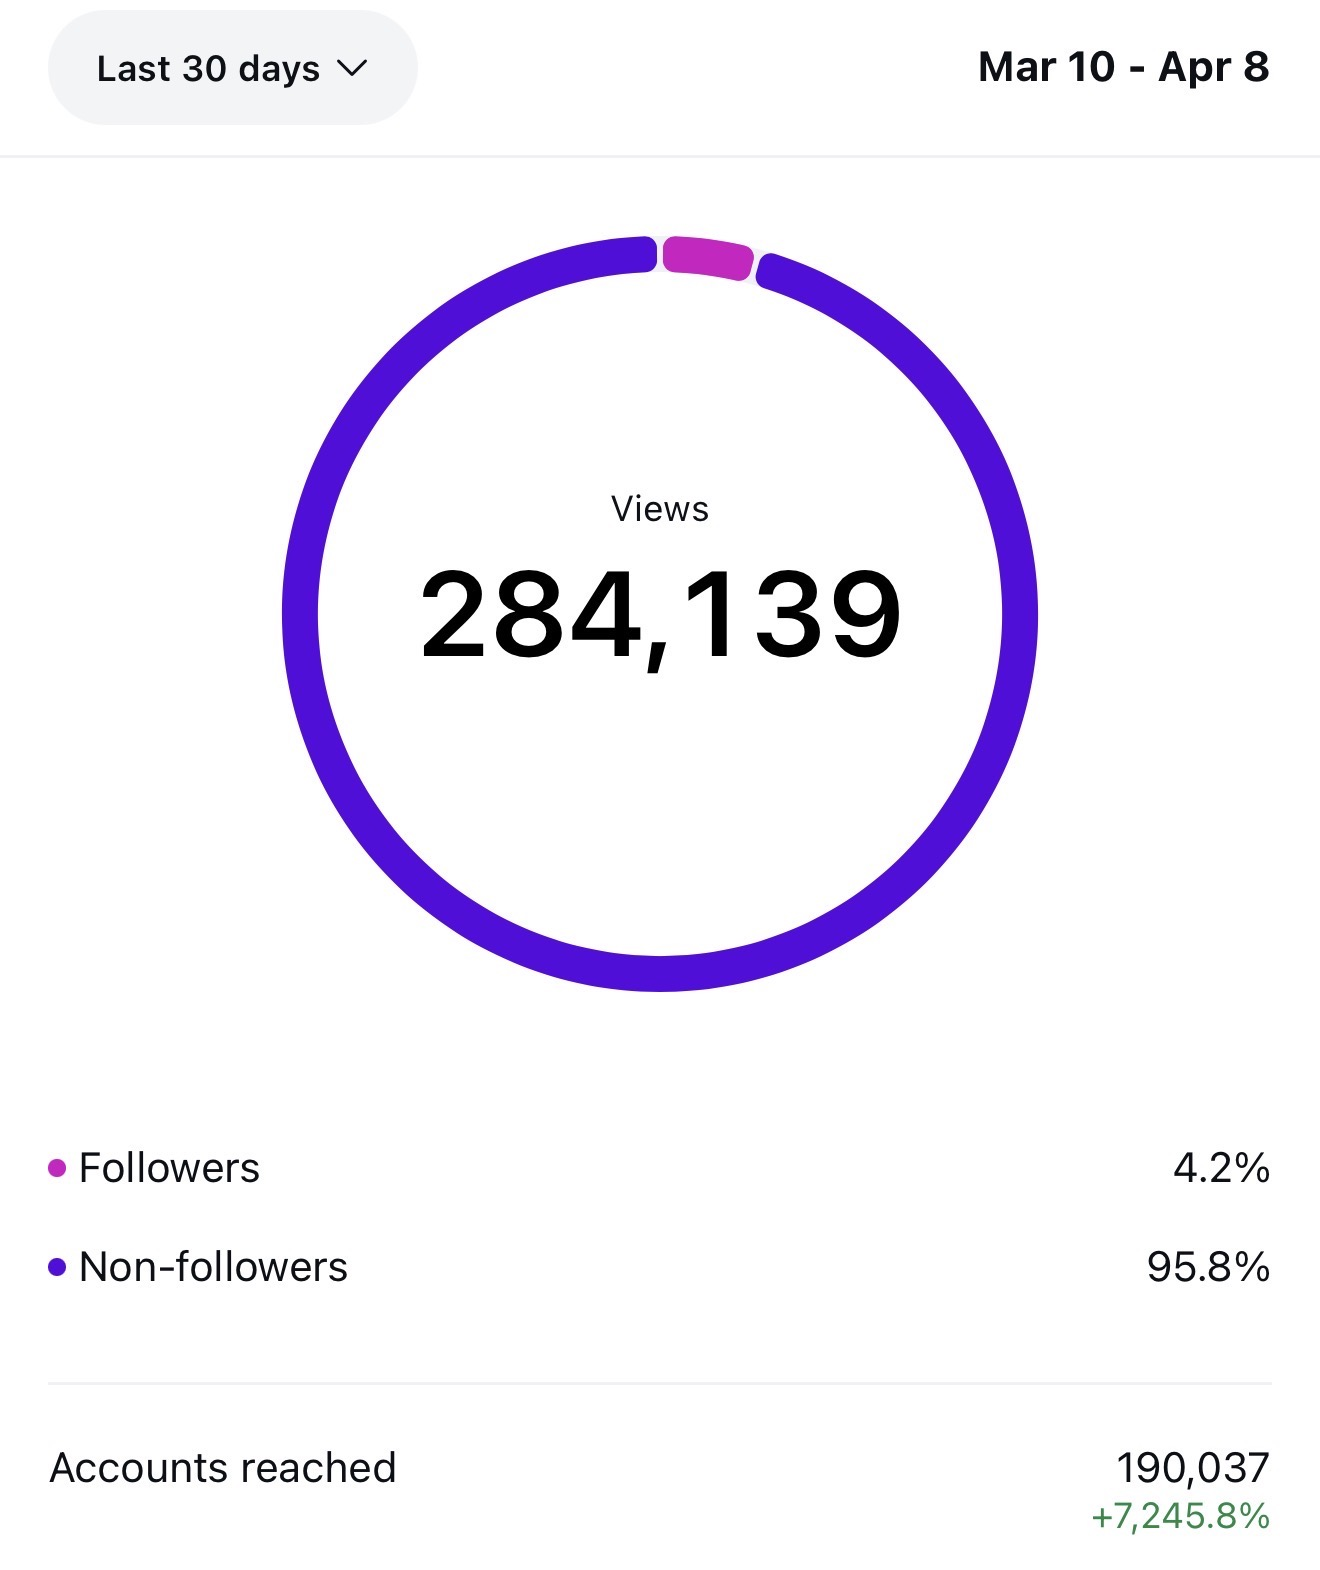
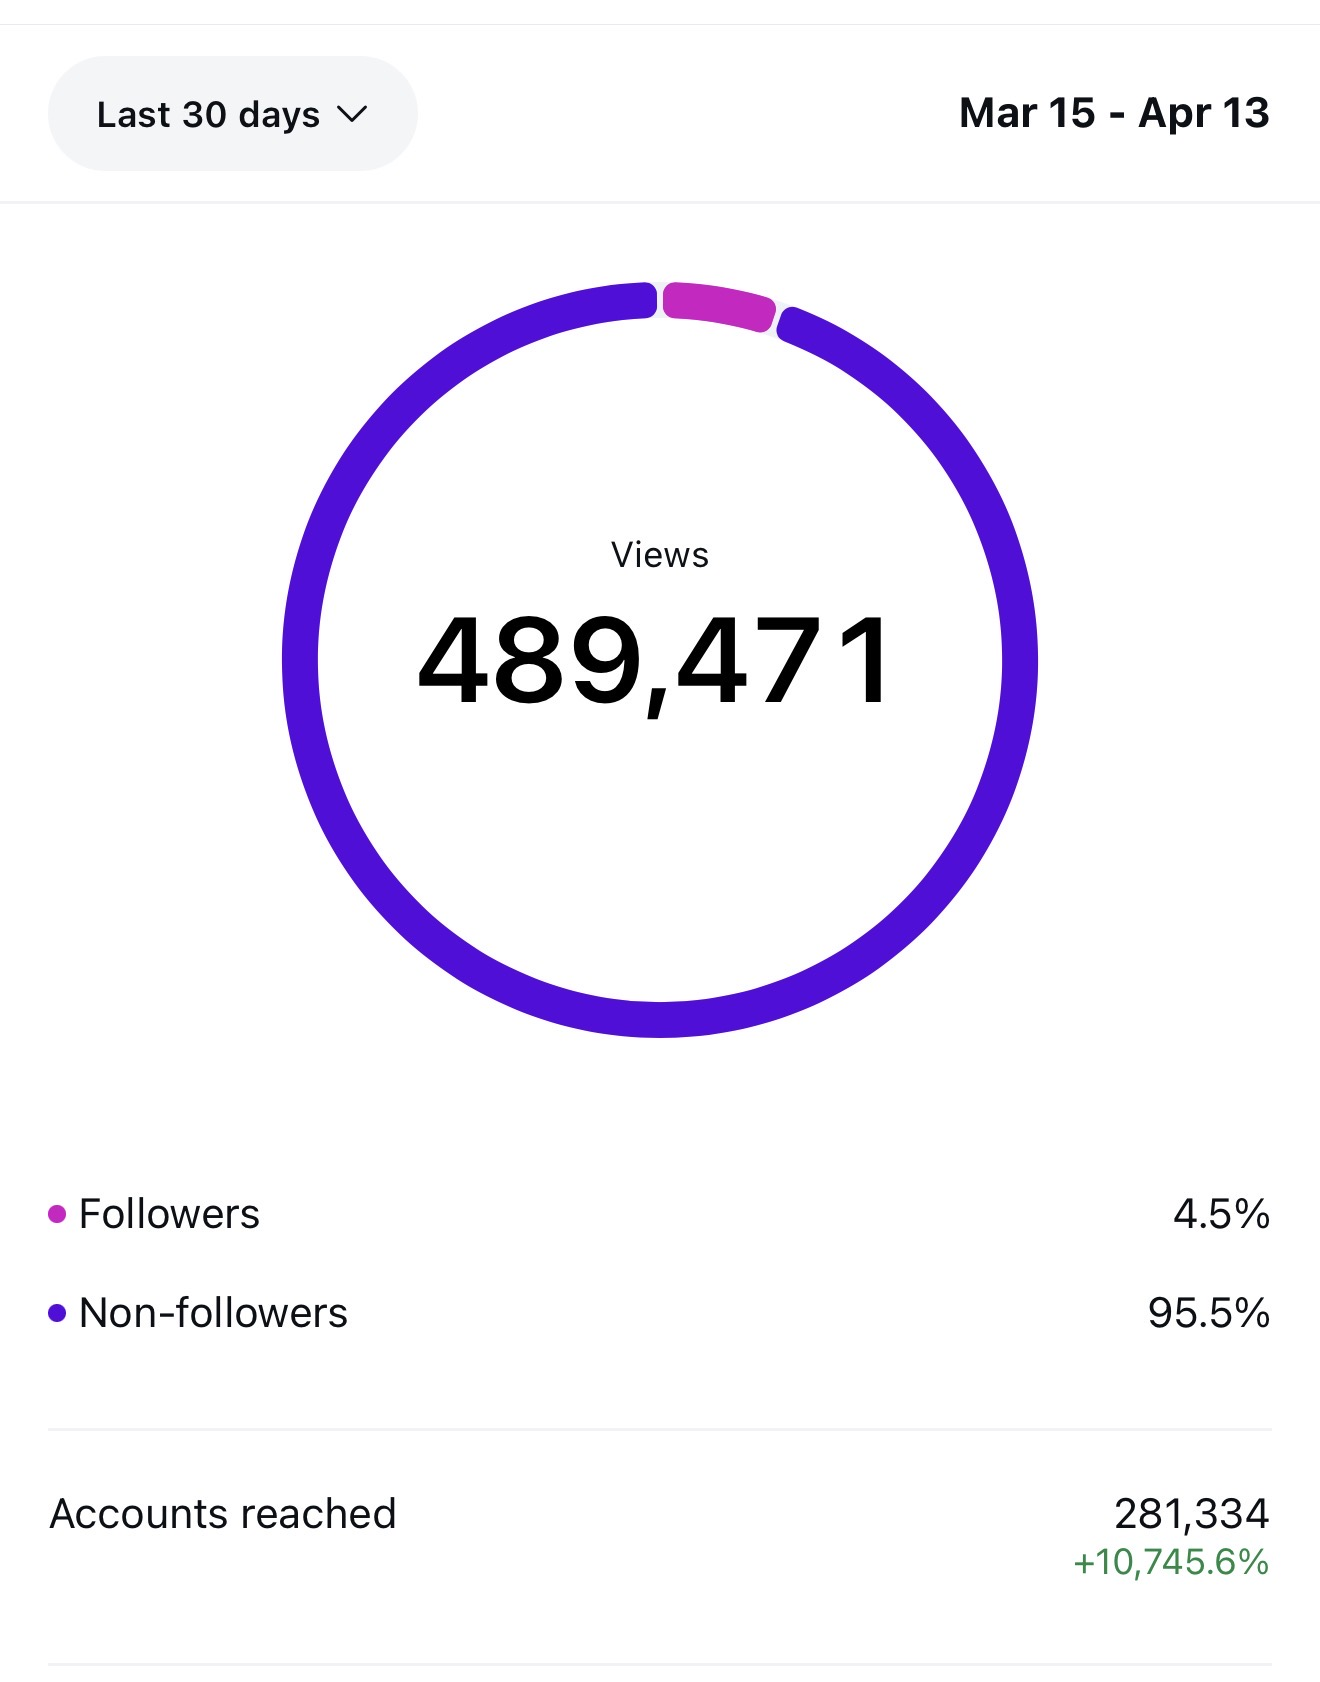
Add files via upload

diff --git a/ugc.html b/ugc.html
@@ -40,7 +40,7 @@
           <div class="iphone-frame">
             <div class="iphone-outer">
               <div class="iphone-screen">
-                <video src="images/featured-ugc.mp4" loop playsinline style="width:100%;height:100%;object-fit:cover;display:block;border-radius:26px;cursor:pointer;" onclick="togglePlay(this)"></video>
+                <video src="images/featured-ugc.mp4" loop playsinline style="width:100%;height:100%;object-fit:cover;display:block;cursor:pointer;" onclick="togglePlay(this)"></video>
               <div class="play-overlay" onclick="handleOverlayClick(this)">
                 <div class="play-btn">
                   <svg width="16" height="16" viewBox="0 0 16 16" fill="white">
@@ -105,7 +105,7 @@
       <div class="iphone-frame">
         <div class="iphone-outer">
           <div class="iphone-screen">
-            <video src="images/bc1.mp4" loop playsinline style="width:100%;height:100%;object-fit:cover;display:block;border-radius:26px;cursor:pointer;" onclick="togglePlay(this)"></video>
+            <video src="images/bc1.mp4" loop playsinline style="width:100%;height:100%;object-fit:cover;display:block;cursor:pointer;" onclick="togglePlay(this)"></video>
               <div class="play-overlay" onclick="handleOverlayClick(this)">
                 <div class="play-btn">
                   <svg width="16" height="16" viewBox="0 0 16 16" fill="white">
@@ -122,7 +122,7 @@
       <div class="iphone-frame">
         <div class="iphone-outer">
           <div class="iphone-screen">
-            <video src="images/bc2.mp4" loop playsinline style="width:100%;height:100%;object-fit:cover;display:block;border-radius:26px;cursor:pointer;" onclick="togglePlay(this)"></video>
+            <video src="images/bc2.mp4" loop playsinline style="width:100%;height:100%;object-fit:cover;display:block;cursor:pointer;" onclick="togglePlay(this)"></video>
               <div class="play-overlay" onclick="handleOverlayClick(this)">
                 <div class="play-btn">
                   <svg width="16" height="16" viewBox="0 0 16 16" fill="white">
@@ -139,7 +139,7 @@
       <div class="iphone-frame">
         <div class="iphone-outer">
           <div class="iphone-screen">
-            <video src="images/bc3.mp4" loop playsinline style="width:100%;height:100%;object-fit:cover;display:block;border-radius:26px;cursor:pointer;" onclick="togglePlay(this)"></video>
+            <video src="images/bc3.mp4" loop playsinline style="width:100%;height:100%;object-fit:cover;display:block;cursor:pointer;" onclick="togglePlay(this)"></video>
               <div class="play-overlay" onclick="handleOverlayClick(this)">
                 <div class="play-btn">
                   <svg width="16" height="16" viewBox="0 0 16 16" fill="white">
@@ -156,7 +156,7 @@
       <div class="iphone-frame">
         <div class="iphone-outer">
           <div class="iphone-screen">
-            <video src="images/bc4.mp4" loop playsinline style="width:100%;height:100%;object-fit:cover;display:block;border-radius:26px;cursor:pointer;" onclick="togglePlay(this)"></video>
+            <video src="images/bc4.mp4" loop playsinline style="width:100%;height:100%;object-fit:cover;display:block;cursor:pointer;" onclick="togglePlay(this)"></video>
               <div class="play-overlay" onclick="handleOverlayClick(this)">
                 <div class="play-btn">
                   <svg width="16" height="16" viewBox="0 0 16 16" fill="white">
@@ -178,7 +178,7 @@
       <div class="iphone-frame">
         <div class="iphone-outer">
           <div class="iphone-screen">
-            <video src="images/ub1.mp4" loop playsinline style="width:100%;height:100%;object-fit:cover;display:block;border-radius:26px;cursor:pointer;" onclick="togglePlay(this)"></video>
+            <video src="images/ub1.mp4" loop playsinline style="width:100%;height:100%;object-fit:cover;display:block;cursor:pointer;" onclick="togglePlay(this)"></video>
               <div class="play-overlay" onclick="handleOverlayClick(this)">
                 <div class="play-btn">
                   <svg width="16" height="16" viewBox="0 0 16 16" fill="white">
@@ -195,7 +195,7 @@
       <div class="iphone-frame">
         <div class="iphone-outer">
           <div class="iphone-screen">
-            <video src="images/ub2.mp4" loop playsinline style="width:100%;height:100%;object-fit:cover;display:block;border-radius:26px;cursor:pointer;" onclick="togglePlay(this)"></video>
+            <video src="images/ub2.mp4" loop playsinline style="width:100%;height:100%;object-fit:cover;display:block;cursor:pointer;" onclick="togglePlay(this)"></video>
               <div class="play-overlay" onclick="handleOverlayClick(this)">
                 <div class="play-btn">
                   <svg width="16" height="16" viewBox="0 0 16 16" fill="white">
@@ -212,7 +212,7 @@
       <div class="iphone-frame">
         <div class="iphone-outer">
           <div class="iphone-screen">
-            <video src="images/ub3.mp4" loop playsinline style="width:100%;height:100%;object-fit:cover;display:block;border-radius:26px;cursor:pointer;" onclick="togglePlay(this)"></video>
+            <video src="images/ub3.mp4" loop playsinline style="width:100%;height:100%;object-fit:cover;display:block;cursor:pointer;" onclick="togglePlay(this)"></video>
               <div class="play-overlay" onclick="handleOverlayClick(this)">
                 <div class="play-btn">
                   <svg width="16" height="16" viewBox="0 0 16 16" fill="white">
@@ -229,7 +229,7 @@
       <div class="iphone-frame">
         <div class="iphone-outer">
           <div class="iphone-screen">
-            <video src="images/ub4.mp4" loop playsinline style="width:100%;height:100%;object-fit:cover;display:block;border-radius:26px;cursor:pointer;" onclick="togglePlay(this)"></video>
+            <video src="images/ub4.mp4" loop playsinline style="width:100%;height:100%;object-fit:cover;display:block;cursor:pointer;" onclick="togglePlay(this)"></video>
               <div class="play-overlay" onclick="handleOverlayClick(this)">
                 <div class="play-btn">
                   <svg width="16" height="16" viewBox="0 0 16 16" fill="white">
@@ -251,7 +251,7 @@
       <div class="iphone-frame">
         <div class="iphone-outer">
           <div class="iphone-screen">
-            <video src="images/le1.mp4" loop playsinline style="width:100%;height:100%;object-fit:cover;display:block;border-radius:26px;cursor:pointer;" onclick="togglePlay(this)"></video>
+            <video src="images/le1.mp4" loop playsinline style="width:100%;height:100%;object-fit:cover;display:block;cursor:pointer;" onclick="togglePlay(this)"></video>
               <div class="play-overlay" onclick="handleOverlayClick(this)">
                 <div class="play-btn">
                   <svg width="16" height="16" viewBox="0 0 16 16" fill="white">
@@ -268,7 +268,7 @@
       <div class="iphone-frame">
         <div class="iphone-outer">
           <div class="iphone-screen">
-            <video src="images/le2.mp4" loop playsinline style="width:100%;height:100%;object-fit:cover;display:block;border-radius:26px;cursor:pointer;" onclick="togglePlay(this)"></video>
+            <video src="images/le2.mp4" loop playsinline style="width:100%;height:100%;object-fit:cover;display:block;cursor:pointer;" onclick="togglePlay(this)"></video>
               <div class="play-overlay" onclick="handleOverlayClick(this)">
                 <div class="play-btn">
                   <svg width="16" height="16" viewBox="0 0 16 16" fill="white">
@@ -285,7 +285,7 @@
       <div class="iphone-frame">
         <div class="iphone-outer">
           <div class="iphone-screen">
-            <video src="images/le3.mp4" loop playsinline style="width:100%;height:100%;object-fit:cover;display:block;border-radius:26px;cursor:pointer;" onclick="togglePlay(this)"></video>
+            <video src="images/le3.mp4" loop playsinline style="width:100%;height:100%;object-fit:cover;display:block;cursor:pointer;" onclick="togglePlay(this)"></video>
               <div class="play-overlay" onclick="handleOverlayClick(this)">
                 <div class="play-btn">
                   <svg width="16" height="16" viewBox="0 0 16 16" fill="white">
@@ -302,7 +302,7 @@
       <div class="iphone-frame">
         <div class="iphone-outer">
           <div class="iphone-screen">
-            <video src="images/le4.mp4" loop playsinline style="width:100%;height:100%;object-fit:cover;display:block;border-radius:26px;cursor:pointer;" onclick="togglePlay(this)"></video>
+            <video src="images/le4.mp4" loop playsinline style="width:100%;height:100%;object-fit:cover;display:block;cursor:pointer;" onclick="togglePlay(this)"></video>
               <div class="play-overlay" onclick="handleOverlayClick(this)">
                 <div class="play-btn">
                   <svg width="16" height="16" viewBox="0 0 16 16" fill="white">

diff --git a/strategy.html b/strategy.html
@@ -147,7 +147,7 @@
         <div class="platform-name">TikTok</div>
       </div>
       <div class="platform-icon-group">
-        <div class="platform-badge">Feb 8 – Apr 8, 2026</div>
+        <div class="platform-badge">Feb 13 – Apr 13, 2026</div>
         <div class="platform-icon">
           <svg viewBox="0 0 24 24" fill="currentColor">
             <path d="M19.59 6.69a4.83 4.83 0 0 1-3.77-4.25V2h-3.45v13.67a2.89 2.89 0 0 1-2.88 2.5 2.89 2.89 0 0 1-2.89-2.89 2.89 2.89 0 0 1 2.89-2.89c.28 0 .54.04.79.1V9.01a6.33 6.33 0 0 0-.79-.05 6.34 6.34 0 0 0-6.34 6.34 6.34 6.34 0 0 0 6.34 6.34 6.34 6.34 0 0 0 6.33-6.34V8.69a8.18 8.18 0 0 0 4.78 1.52V6.76a4.85 4.85 0 0 1-1.01-.07z"/>
@@ -158,42 +158,42 @@
 
     <div class="kpi-grid">
       <div class="kpi-card">
-        <span class="kpi-value">781K</span>
+        <span class="kpi-value">818K</span>
         <span class="kpi-label">Video Views</span>
-        <span class="kpi-change">+180,316 · +30%</span>
-        <span class="kpi-period">Feb 8 – Apr 8</span>
+        <span class="kpi-change">+228,996 · +38.9%</span>
+        <span class="kpi-period">Feb 13 – Apr 13</span>
       </div>
       <div class="kpi-card">
-        <span class="kpi-value">47K</span>
+        <span class="kpi-value">50K</span>
         <span class="kpi-label">Profile Views</span>
-        <span class="kpi-change">+9,163 · +24.2%</span>
-        <span class="kpi-period">Feb 8 – Apr 8</span>
+        <span class="kpi-change">+14,230 · +39.9%</span>
+        <span class="kpi-period">Feb 13 – Apr 13</span>
       </div>
       <div class="kpi-card">
-        <span class="kpi-value">64K</span>
+        <span class="kpi-value">68K</span>
         <span class="kpi-label">Likes</span>
-        <span class="kpi-change">+21,363 · +50.3%</span>
-        <span class="kpi-period">Feb 8 – Apr 8</span>
+        <span class="kpi-change">+25,249 · +59.4%</span>
+        <span class="kpi-period">Feb 13 – Apr 13</span>
       </div>
       <div class="kpi-card">
-        <span class="kpi-value">1.3K</span>
+        <span class="kpi-value">1.4K</span>
         <span class="kpi-label">Shares</span>
-        <span class="kpi-change">+513 · +67.4%</span>
-        <span class="kpi-period">Feb 8 – Apr 8</span>
+        <span class="kpi-change">+611 · +80.2%</span>
+        <span class="kpi-period">Feb 13 – Apr 13</span>
       </div>
     </div>
 
     <div class="platform-insight">
-      <strong>Feb 8 – Apr 8, 2026 —</strong> 781K total video views with likes up 50.3% and shares up 67.4% — content is being actively saved and shared well beyond the existing audience. Profile views hit 47K (+24.2%), showing strong top-of-funnel discovery.
+      <strong>Feb 13 – Apr 13, 2026 —</strong> 818K total video views with likes up 59.4% and shares up 80.2% — content is being actively saved and shared well beyond the existing audience. Profile views hit 50K (+39.9%), showing strong top-of-funnel discovery.
     </div>
 
     <div class="platform-graphs" style="grid-template-columns: 1fr;">
       <div class="graph-card">
         <div class="graph-img">
-          <img src="images/tiktok-analytics.png" alt="TikTok analytics Feb 8 – Apr 8: video views, profile views, likes, comments and shares">
+          <img src="images/tiktok-analytics.png" alt="TikTok analytics Feb 13 – Apr 13: video views, profile views, likes, comments and shares">
         </div>
         <div class="graph-info">
-          <div class="graph-label">60-Day Overview · Feb 8 – Apr 8, 2026</div>
+          <div class="graph-label">60-Day Overview · Feb 13 – Apr 13, 2026</div>
           <div class="graph-title">Video views, likes, comments & shares</div>
           <div class="graph-note">@anniexyaps · TikTok Studio Analytics</div>
         </div>
@@ -211,7 +211,7 @@
         <div class="platform-name">Instagram</div>
       </div>
       <div class="platform-icon-group">
-        <div class="platform-badge">Mar 10 – Apr 8, 2026</div>
+        <div class="platform-badge">Mar 15 – Apr 13, 2026</div>
         <div class="platform-icon">
           <svg viewBox="0 0 24 24" fill="currentColor">
             <path d="M12 2.163c3.204 0 3.584.012 4.85.07 3.252.148 4.771 1.691 4.919 4.919.058 1.265.069 1.645.069 4.849 0 3.205-.012 3.584-.069 4.849-.149 3.225-1.664 4.771-4.919 4.919-1.266.058-1.644.07-4.85.07-3.204 0-3.584-.012-4.849-.07-3.26-.149-4.771-1.699-4.919-4.92-.058-1.265-.07-1.644-.07-4.849 0-3.204.013-3.583.07-4.849.149-3.227 1.664-4.771 4.919-4.919 1.266-.057 1.645-.069 4.849-.069zM12 0C8.741 0 8.333.014 7.053.072 2.695.272.273 2.69.073 7.052.014 8.333 0 8.741 0 12c0 3.259.014 3.668.072 4.948.2 4.358 2.618 6.78 6.98 6.98C8.333 23.986 8.741 24 12 24c3.259 0 3.668-.014 4.948-.072 4.354-.2 6.782-2.618 6.979-6.98.059-1.28.073-1.689.073-4.948 0-3.259-.014-3.667-.072-4.947-.196-4.354-2.617-6.78-6.979-6.98C15.668.014 15.259 0 12 0zm0 5.838a6.162 6.162 0 1 0 0 12.324 6.162 6.162 0 0 0 0-12.324zM12 16a4 4 0 1 1 0-8 4 4 0 0 1 0 8zm6.406-11.845a1.44 1.44 0 1 0 0 2.881 1.44 1.44 0 0 0 0-2.881z"/>
@@ -222,27 +222,27 @@
 
     <div class="kpi-grid" style="grid-template-columns: repeat(3, 1fr);">
       <div class="kpi-card">
-        <span class="kpi-value">284.1K</span>
+        <span class="kpi-value">489.5K</span>
         <span class="kpi-label">Views</span>
         <span class="kpi-change">↑ Strong upward trend</span>
-        <span class="kpi-period">Mar 10 – Apr 8</span>
+        <span class="kpi-period">Mar 15 – Apr 13</span>
       </div>
       <div class="kpi-card">
-        <span class="kpi-value">190K</span>
+        <span class="kpi-value">281.3K</span>
         <span class="kpi-label">Accounts Reached</span>
-        <span class="kpi-change">+7,245.8%</span>
-        <span class="kpi-period">Mar 10 – Apr 8</span>
+        <span class="kpi-change">+10,745.6%</span>
+        <span class="kpi-period">Mar 15 – Apr 13</span>
       </div>
       <div class="kpi-card">
         <span class="kpi-value">614%</span>
         <span class="kpi-label">Top Reel Outperformance</span>
         <span class="kpi-change">↑ vs. previous 5 reels</span>
-        <span class="kpi-period">Mar 10 – Apr 8</span>
+        <span class="kpi-period">Mar 15 – Apr 13</span>
       </div>
     </div>
 
     <div class="platform-insight">
-      <strong>Standout growth —</strong> 284,139 views with 190,037 accounts reached — a +7,245.8% increase in reach. 95.8% of views came from non-followers, showing strong organic discovery and content that reaches well beyond the existing audience.
+      <strong>Standout growth —</strong> 489,471 views with 281,334 accounts reached — a +10,745.6% increase in reach. 95.5% of views came from non-followers, showing strong organic discovery and content that reaches well beyond the existing audience.
     </div>
 
     <div class="ig-balanced">
@@ -252,20 +252,20 @@
             <img src="images/ig-analytics.jpg" alt="Instagram views: 284,139 views, 190,037 accounts reached, Mar 10 – Apr 8">
           </div>
           <div class="graph-info">
-            <div class="graph-label">Views · Mar 10 – Apr 8</div>
-            <div class="graph-title">284,139 views · 190,037 accounts reached</div>
-            <div class="graph-note">@axsoal · Instagram Insights</div>
+            <div class="graph-label">Views · Mar 15 – Apr 13, 2026</div>
+            <div class="graph-title">489,471 views · 281,334 accounts reached</div>
+            <div class="graph-note">Mar 15 – Apr 13, 2026 · @axsoal · 95.5% non-follower reach</div>
           </div>
         </div>
       </div>
       <div class="ig-text-col">
         <div class="ig-stat-block">
-          <div class="ig-stat-num">95.8%</div>
+          <div class="ig-stat-num">95.5%</div>
           <div class="ig-stat-lbl">Views from non-followers</div>
           <div class="ig-stat-desc">Content is reaching well beyond the existing audience — strong organic discovery.</div>
         </div>
         <div class="ig-stat-block">
-          <div class="ig-stat-num">+7,245%</div>
+          <div class="ig-stat-num">+10,746%</div>
           <div class="ig-stat-lbl">Growth in accounts reached</div>
           <div class="ig-stat-desc">A dramatic increase in reach over the 30-day period, driven by high-performing reel content.</div>
         </div>

diff --git a/style.css b/style.css
@@ -352,8 +352,8 @@ body {
   width: 60px; height: 4px;
   background: #3a3a3c; border-radius: 3px;
 }
-.iphone-screen { width: 100%; height: 100%; background: var(--linen-light); border-radius: 26px; overflow: hidden; position: relative; display: flex; align-items: center; justify-content: center; }
-.iphone-screen video, .iphone-screen img { width: 100%; height: 100%; object-fit: cover; display: block; }
+.iphone-screen { width: 100%; height: 100%; background: var(--linen-light); border-radius: 26px; overflow: hidden; position: relative; display: flex; align-items: center; justify-content: center; isolation: isolate; }
+.iphone-screen video, .iphone-screen img { width: 100%; height: 100%; object-fit: cover; display: block; border-radius: 0; }
 
 .iphone-drop-zone {
   width: 100%; height: 100%;
@@ -649,4 +649,48 @@ body {
   font-weight: 300;
   color: var(--wine-dark);
   line-height: 1.3;
+}
+
+/* ===== UGC CLICK-TO-PLAY ===== */
+.iphone-screen {
+  position: relative;
+}
+.play-overlay {
+  position: absolute;
+  inset: 0;
+  display: flex;
+  align-items: center;
+  justify-content: center;
+  border-radius: 26px;
+  cursor: pointer;
+  transition: background 0.2s;
+  z-index: 10;
+}
+.play-overlay:hover {
+  background: rgba(0,0,0,0.12);
+}
+/* Play button always visible; hides when playing */
+.play-btn {
+  width: 48px;
+  height: 48px;
+  background: rgba(100, 2, 25, 0.5);
+  border-radius: 50%;
+  display: flex;
+  align-items: center;
+  justify-content: center;
+  transition: transform 0.15s, opacity 0.2s;
+  box-shadow: 0 2px 12px rgba(0,0,0,0.35);
+}
+.play-btn svg {
+  margin-left: 4px;
+}
+/* When playing: hide btn, show on hover */
+.play-overlay.playing .play-btn {
+  opacity: 0;
+}
+.play-overlay.playing:hover .play-btn {
+  opacity: 1;
+}
+.play-overlay:hover .play-btn {
+  transform: scale(1.08);
 }
